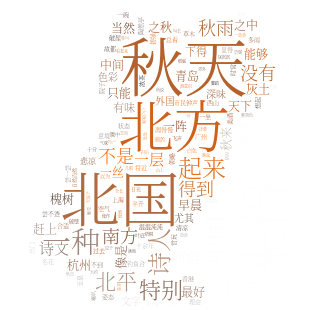
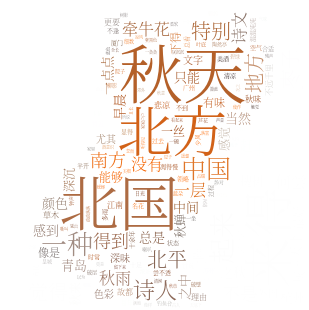
practice: 设置词云轮廓, 效果不理想(constructor_color_contour.png)
增加README.md

Changed region(s): [[0.1165, 0.029, 0.9029, 0.9871]]

diff --git a/Chinese_word_cloud/word_cloud_practice/word_cloud_practice1.py b/Chinese_word_cloud/word_cloud_practice/word_cloud_practice1.py
@@ -5,6 +5,11 @@ width : int (default=400) #输出的画布宽度，默认为400像素
 height : int (default=200) #输出的画布高度，默认为200像素
 prefer_horizontal : float (default=0.90) #词语水平方向排版出现的频率，默认 0.9 （所以词语垂直方向排版出现频率为 0.1 ）
 mask : nd-array or None (default=None) #如果参数为空，则使用二维遮罩绘制词云。如果 mask 非空，设置的宽高值将被忽略，遮罩形状被 mask 取代。除全白（#FFFFFF）的部分将不会绘制，其余部分会用于绘制词云。如：bg_pic = imread('读取一张图片.png')，背景图片的画布一定要设置为白色（#FFFFFF），然后显示的形状为不是白色的其他颜色。可以用ps工具将自己要显示的形状复制到一个纯白色的画布上再保存，就ok了。
+
+contour_width:float，设置词云边界宽度，默认为0，不画出词云边界线，当mask中填充部分的边界平滑时可以设置contour_width，否则不需要设置该参数，会产生锯齿。
+【注意】若设置mode ='RGBA',且contour_width不为0, 则会抛出异常 ValueError: operands could not be broadcast together with shapes (310,309,4) (310,309,3)
+contour_color:'black'，边界线颜色，默认为黑色，当contour_width不为0时，设置本参数改变边界线颜色。
+
 scale : float (default=1) #按照比例进行放大画布，如设置为1.5，则长和宽都是原来画布的1.5倍
 min_font_size : int (default=4) #显示的最小的字体大小
 font_step : int (default=1) #字体步长，如果步长大于1，会加快运算但是可能导致结果出现较大的误差

diff --git a/Chinese_word_cloud/word_cloud_practice/README.md b/Chinese_word_cloud/word_cloud_practice/README.md
@@ -1,0 +1,4 @@
+constructor_color_contour.png 为**WordCloud**对象设置**contour_width=1,contour_color='red'**的结果
+> 注: 若设置mode ='RGBA',且contour_width不为0, 则会抛出异常 ValueError: operands could not be broadcast together with shapes (310,309,4) (310,309,3)
+
+constructor_color.png 为正常效果
